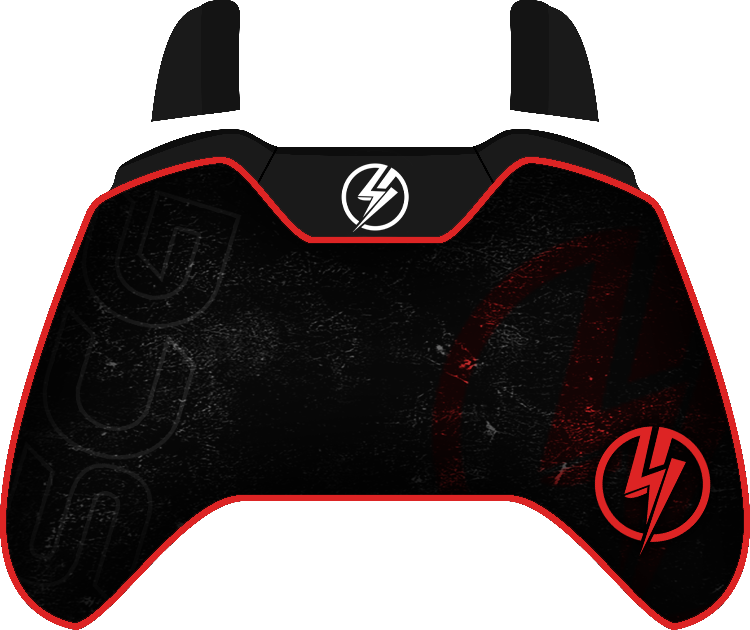
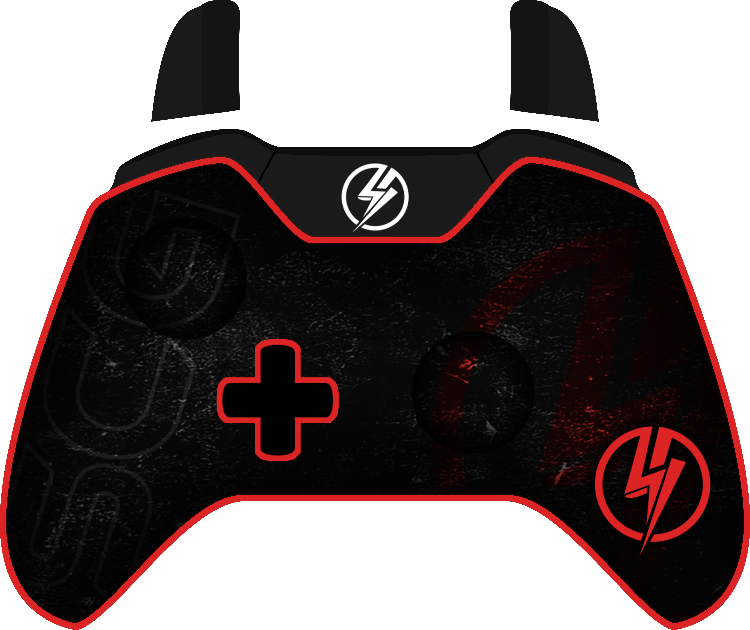
Add files via upload

Changed region(s): [[0.276, 0.5127, 0.46, 0.754], [0.5827, 0.5429, 0.6133, 0.573]]

diff --git a/shortcircuit/config.css b/shortcircuit/config.css
@@ -28,32 +28,13 @@
     opacity: 0;
 }
 
-.xbox .arrows {
-    position: absolute;
-    width: 141px;
-    height: 33px;
-    top: 264px;
-    left: 306px;
-}
-
 .xbox .back, .xbox .start {
     background: url(start-select.png);
-    width: 33px;
-    height: 33px;
     opacity: 0;
 }
 
 .xbox .back.pressed, .xbox .start.pressed {
     opacity: 1;
-}
-
-.xbox .back {
-    float: left;
-}
-
-.xbox .start {
-    background-position: 33px 0px;
-    float: right;
 }
 
 .xbox .button {
